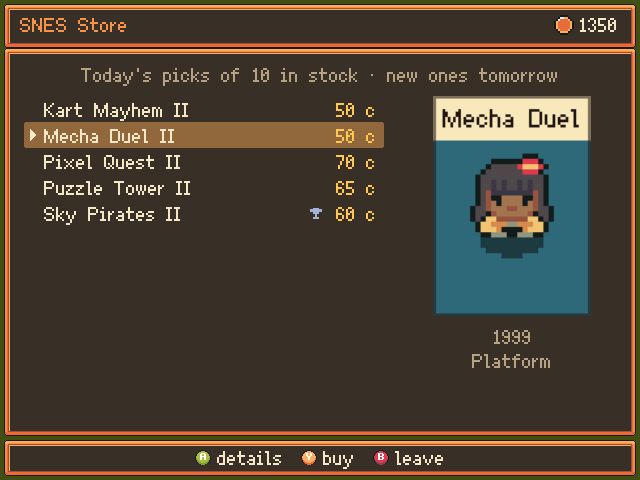
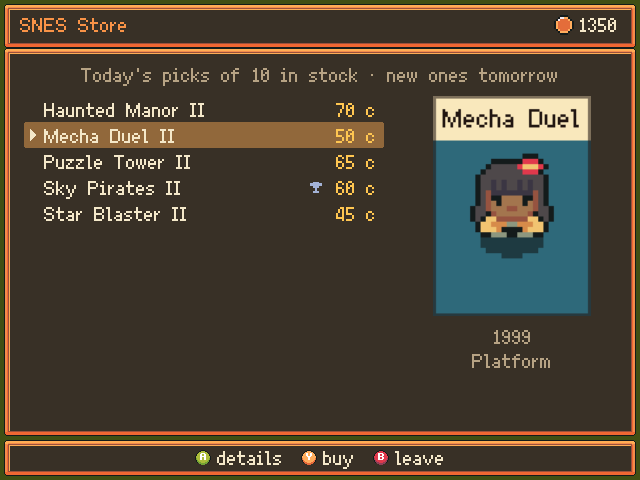
Change GotX position

diff --git a/CLAUDE.md b/CLAUDE.md
@@ -7,7 +7,7 @@ LÖVE 11.5 + LuaJIT game distributed as a PortMaster port. The target is an Anbe
 - Desktop run: `/Applications/love.app/Contents/MacOS/love src` (mock backend). Before handing a build over, run it once with the device's exact args, `love src --layout nintendo`.
 - Screenshot: `love src --screenshot 1` writes `~/Library/Application Support/LOVE/retrotownstory/screenshot.png`.
 - Port: `scripts/build-port.sh` builds `dist/ports/` (`Retro Town Story.sh` and `retrotownstory/`) and `dist/retrotownstory-<version>.zip` (the same, for PortMaster's installer). The user copies `dist/ports/` to the device and pastes back `log.txt`.
-- Port art: `scripts/port-art.sh` redraws `port/screenshot.png` (gameplay in town; the billboards show box art the script draws for the mock games, since the port's images must not show real games' art), `port/screenshot-shop.png` (the SNES Store's menu, for the README only; ES takes one screenshot), `port/cover.png` (box art, with no building signs) and `port/logo.png` (the name on transparency), from the game's own drawing (`scripts/port-art/driver.lua`, run on a copy of `src/` with its own save). Rerun it after visual changes to the town or the logo.
+- Port art: `scripts/port-art.sh` redraws `port/screenshot.png` (gameplay in town; the billboards show box art the script draws for the mock games, since the port's images must not show real games' art; the GotX board's edge shows only "?" panels, as no mock game is a GotX pick), `port/screenshot-shop.png` (the SNES Store's menu, for the README only; ES takes one screenshot), `port/cover.png` (box art, with no building signs) and `port/logo.png` (the name on transparency), from the game's own drawing (`scripts/port-art/driver.lua`, run on a copy of `src/` with its own save). Rerun it after visual changes to the town or the logo.
 - Version: `src/core/version.lua` (0.1.0 so far) holds the game's version, shown on the title screen, logged at startup ("Retro Town Story 0.1.0 started with: ..."), and put in the zip's name by `scripts/build-port.sh`. Change it there only.
 - Launch titles: `src/core/launchtitles.lua` is edited by hand. Each game's IDs come from scraped gamelists; leave them out where none is known.
 - GotX data: `scripts/update-gotx.sh` refreshes `src/assets/gotx/winners.tsv` (the winners the game ships with) from the GotX Randomizer's database, with the query in `src/assets/gotx/winners.sql` (needs `sqlite3`). The game fetches newer ones itself when a pick is due (`services/gotxsync`).
@@ -96,10 +96,10 @@ LÖVE 11.5 + LuaJIT game distributed as a PortMaster port. The target is an Anbe
 ## GotX (retrohandhelds.gg's game club)
 - **Data:** the GotX Randomizer's database (github.com/blakekl/gotx-randomizer, MIT; a bot commits it at irregular times, 4 to 20 times a week, gaps of up to 6 days, mostly for changes other than winners), winners only: 509 picks since 2020-08 (Games of the Month, one per era; RetroBits, weekly; Game of the Quarter; Games of the Year), about 62 KB as TSV. The game uses whichever copy is newer, shipped or downloaded. It lags the community's Discord by a few days (the 2026-11-07 RetroBits wasn't in it on 2026-11-10).
 - **Current picks:** the latest month's Games of the Month (oldest era first), the latest Game of the Quarter and the latest RetroBits (`gotx.current`).
-- **Board:** a 10x3 board (`X` in the town map) on the south street, right of the resident's house below Home, with a panel of box art per current pick ("?" without one). A on it opens `scenes/gotx.lua`: each pick's status (owned, on loan, ROM missing, in library, not in library), its box art, when it was picked, its era and systems; A shows a pick's details (playable when owned or loaned), X its achievements.
+- **Board:** a 10x3 board (`X` in the town map) right of the plaza, where the right-hand billboard used to stand (the town has one billboard now, left of the plaza; two trees went to make room), with a panel of box art per current pick ("?" without one). A on it opens `scenes/gotx.lua`: each pick's status (owned, on loan, ROM missing, in library, not in library), its box art, when it was picked, its era and systems; A shows a pick's details (playable when owned or loaned), X its achievements.
 - **Loans:** current picks in the library that the player doesn't own, with their ROM present, on any console, are playable like owned games (a "GotX loans" tab in Home's collection; play and achievements pay coins) until the next pick of their kind. They never count as owning a console, and Granny Rose can't buy them. `app:canPlay` covers owned and loaned games. Arcade picks (matched against the library's arcade games too, `arcadeGames` in main.lua) aren't loaned: until the next pick of their kind they take the first Arcade Club cabinets unless owned (`featured` in `arcade.cabinets`; the week's games move along), and the board's screen says "Arcade Club". A villager's GotX line about a game the player can't play opens it without a play action.
 - **GotX Store:** in the mall when GotX winners on owned consoles are for sale; its daily offer puts the current picks first.
-- **Villagers:** one talk in three (`townsfolk.GOTX_CHANCE`) is about GotX instead: a current pick in the library (with the month's theme), or trivia about a past winner the player has ("Did you know Super Mario 64 was Game of the Month in August 2020?"); the dialog opens the game.
+- **Villagers:** one talk in three (`townsfolk.GOTX_CHANCE`) is about GotX instead: a current pick in the library (with the month's theme), or trivia about a past winner in the library ("Did you know Super Mario 64 was Game of the Month in August 2020?"; only owned ones get "You've got ..., haven't you?", `GOTX_TRIVIA_OWNED`); the dialog opens the game. The board's tiles are plain lawn (`X = "lawn"` in town.lua's GROUND), so no flower peeks out under it.
 
 ## Look and feel decisions
 - **Title screen:** the town (`Town.paint`) pans slowly across behind a darkened band with the logo ("Retro Town", 3x, over a "Story" ribbon; `Title.drawLogo`, also used for the port's art) and the tagline, "Play your games, grow your collection"; the player and a few townsfolk stroll along the main street; the menu sits over the plaza.
